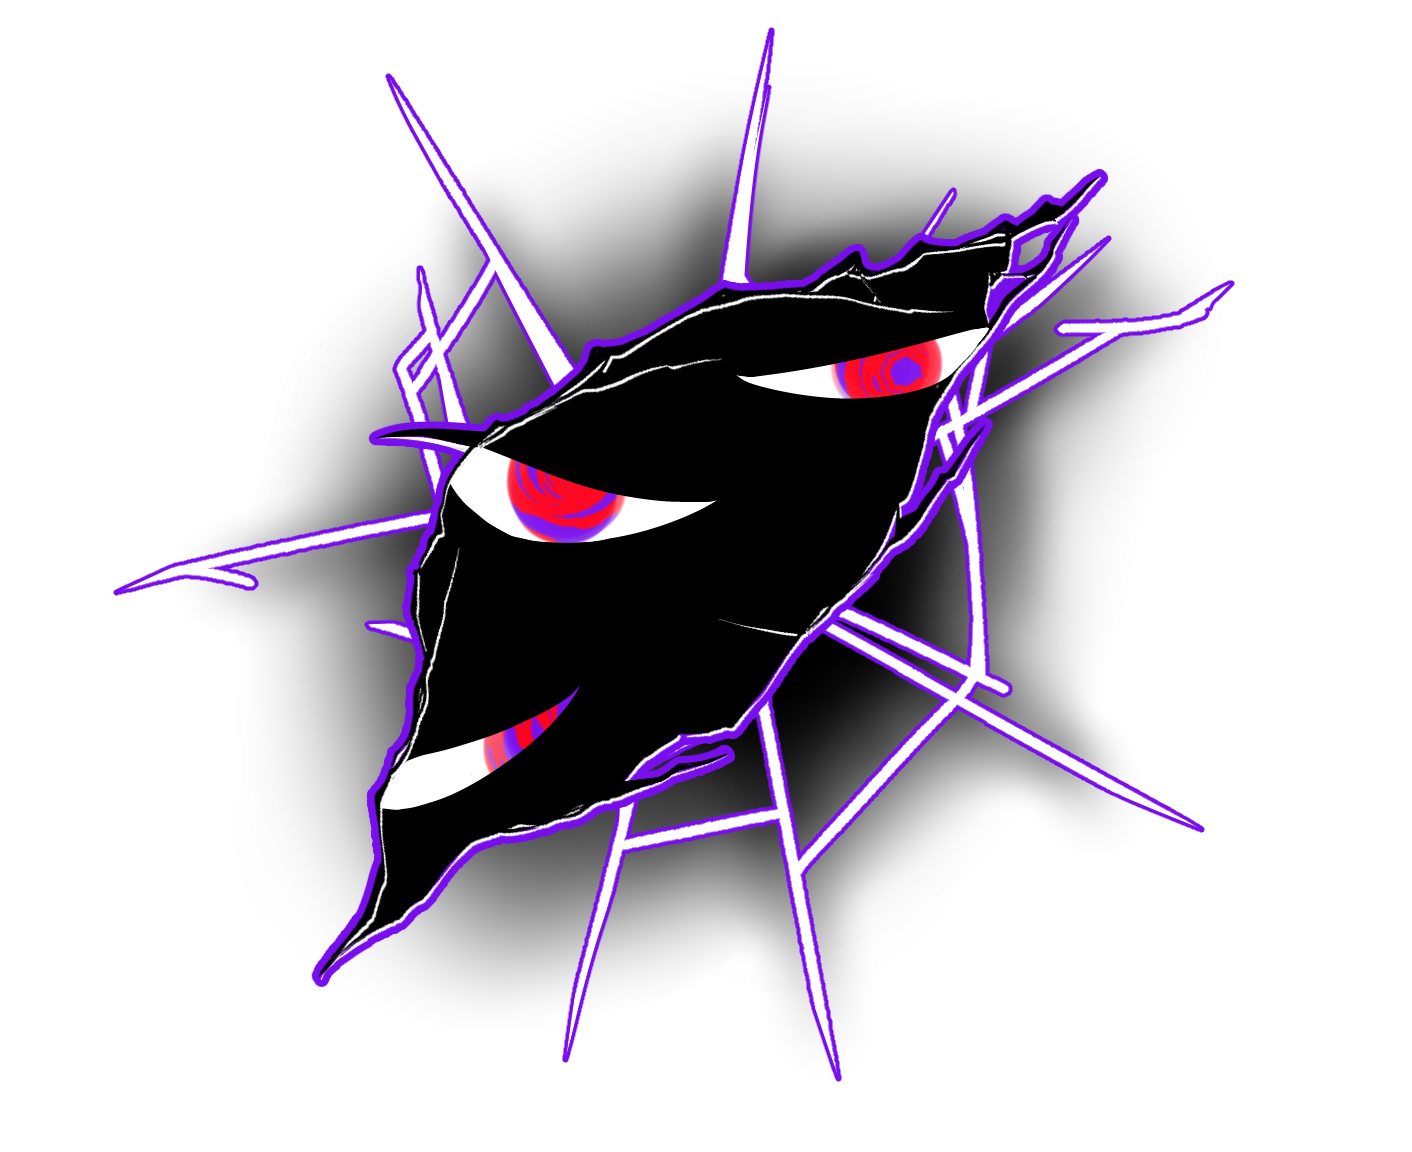
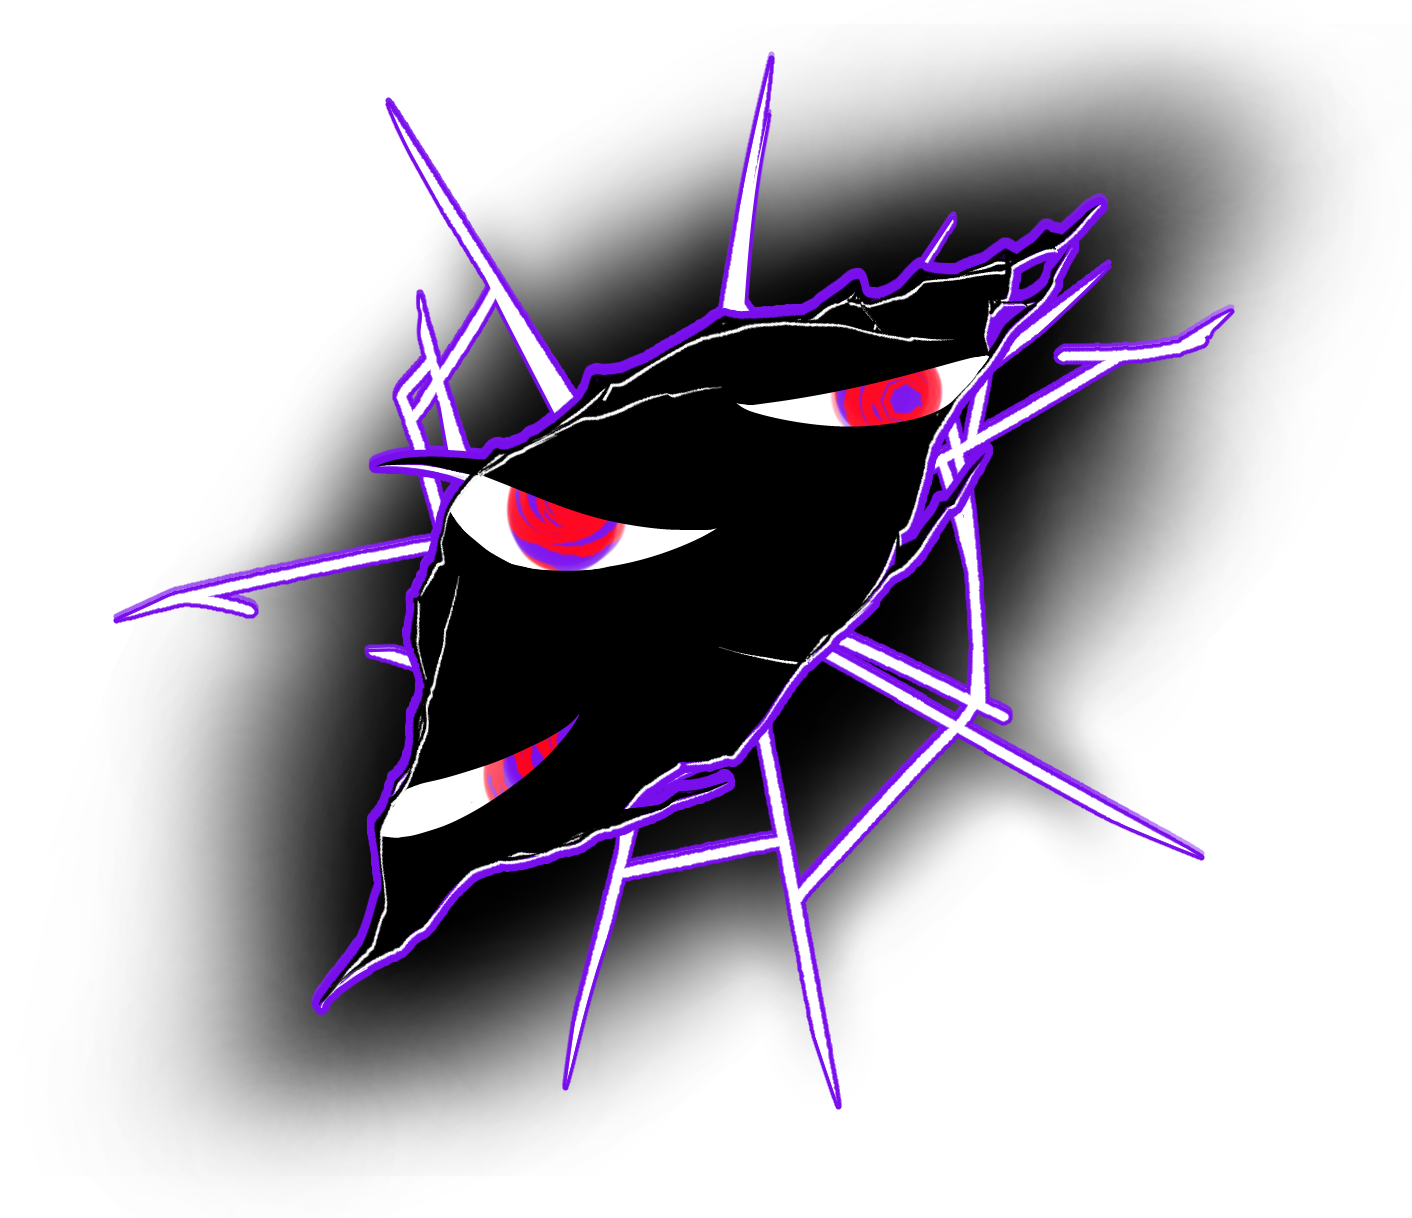
[CHORE] purple gimmick flashlight eye random flip

diff --git a/Assets/Scripts/Minigame/Pattern/Purple/PatternEye.cs b/Assets/Scripts/Minigame/Pattern/Purple/PatternEye.cs
@@ -1,4 +1,4 @@
-using System.Collections;
+using System.Collections;
 using System.Collections.Generic;
 using UnityEngine;
 
@@ -7,6 +7,7 @@ public class PatternEye : MonoBehaviour
     private List<GameObject> eyeChildrens = new List<GameObject>();
     private Animator animator;
     private bool check = false;
+    private int flip = 0;
 
     private void Start()
     {
@@ -15,6 +16,13 @@ public class PatternEye : MonoBehaviour
 
         // all children non - activation
         SetObjectActive(false);
+
+        // random flip
+        flip = Random.Range(0, 2);
+        if (flip == 1)
+        {
+            transform.localScale = new Vector3((-1) * transform.localScale.x, transform.localScale.y, 1);
+        }
     }
 
     private void Update()

diff --git a/Assets/Scripts/Minigame/TestLoadMini.cs b/Assets/Scripts/Minigame/TestLoadMini.cs
@@ -5,9 +5,9 @@ using UnityEngine.SceneManagement;
 
 public class TestLoadMini : MonoBehaviour
 {
-    public static int patternIdx = 3;
+    public static int patternIdx = 4;
     public static int patternGimmick;
-    public static int patternLevel = 1;
+    public static int patternLevel = 5;
 
     public void YellowStamp()
     {
